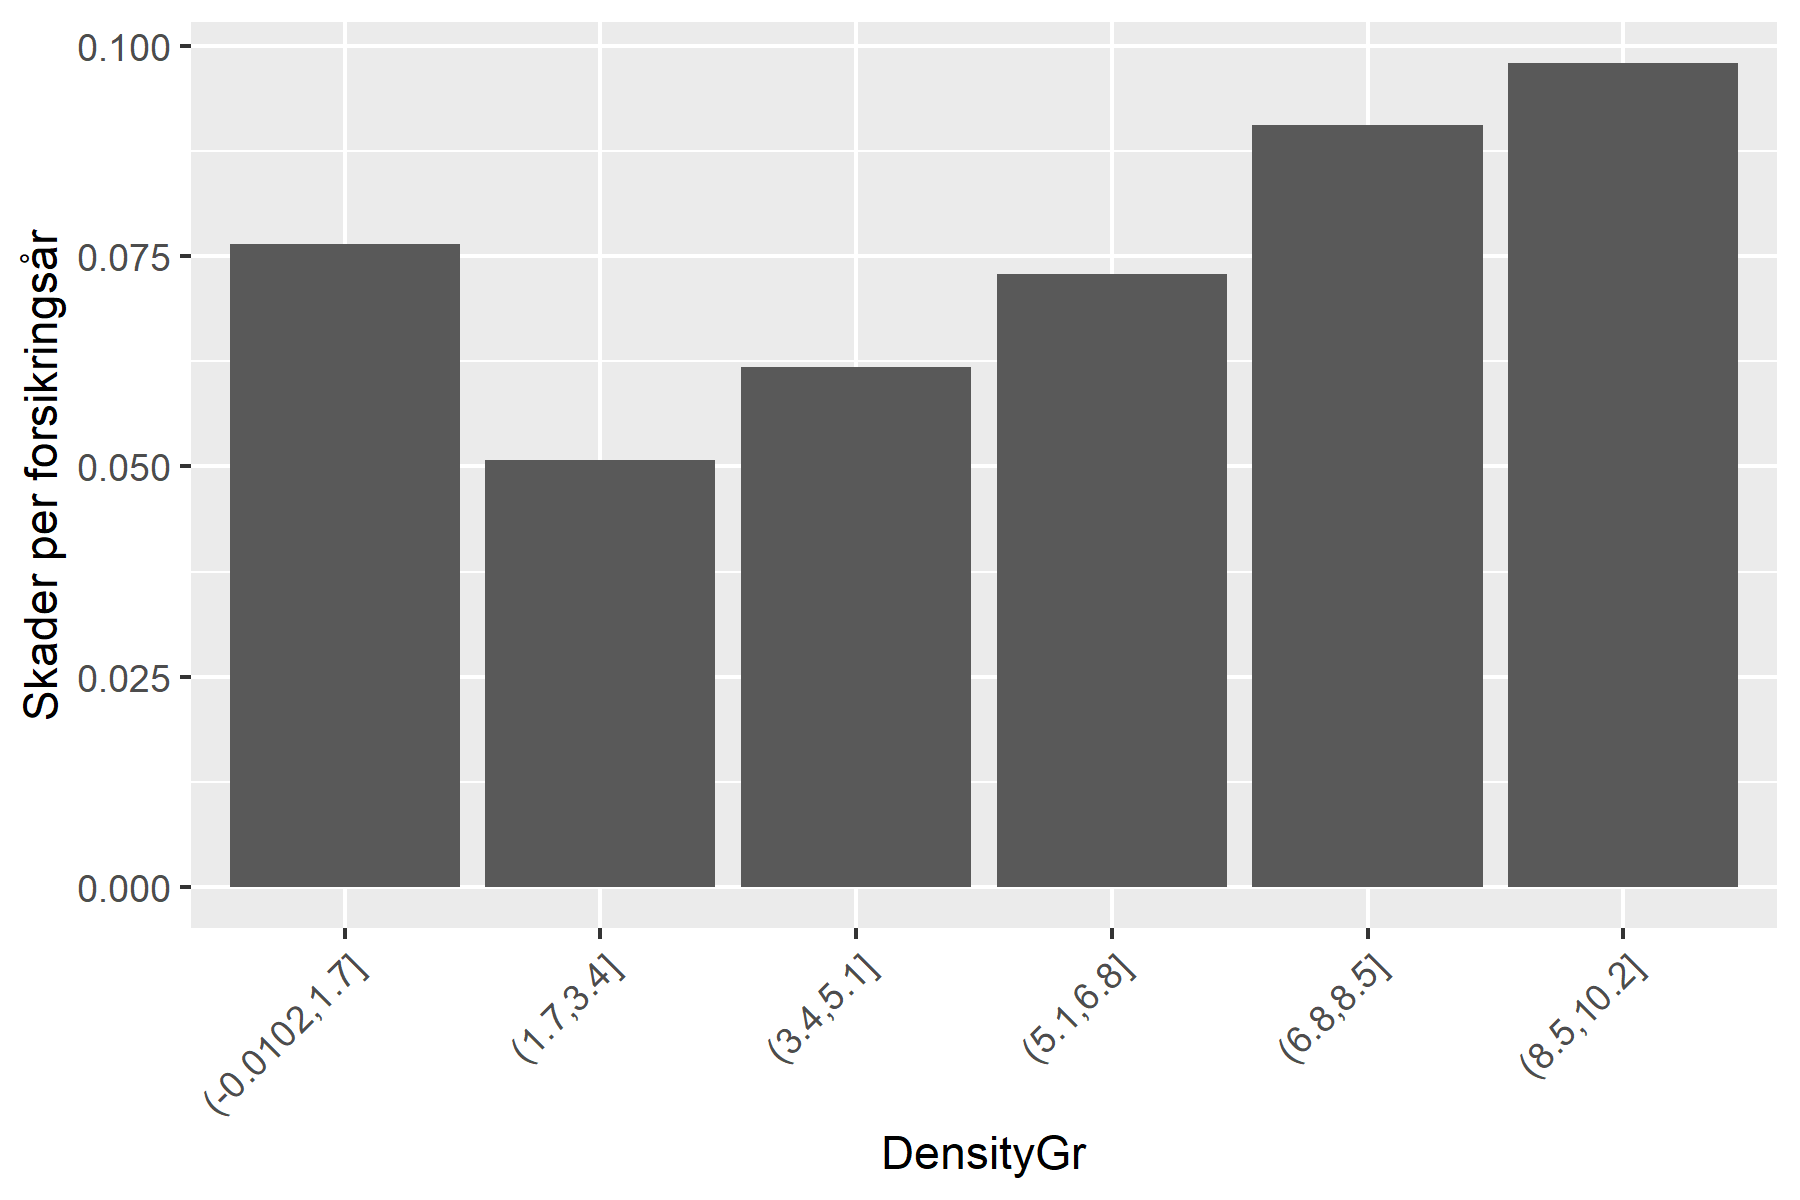
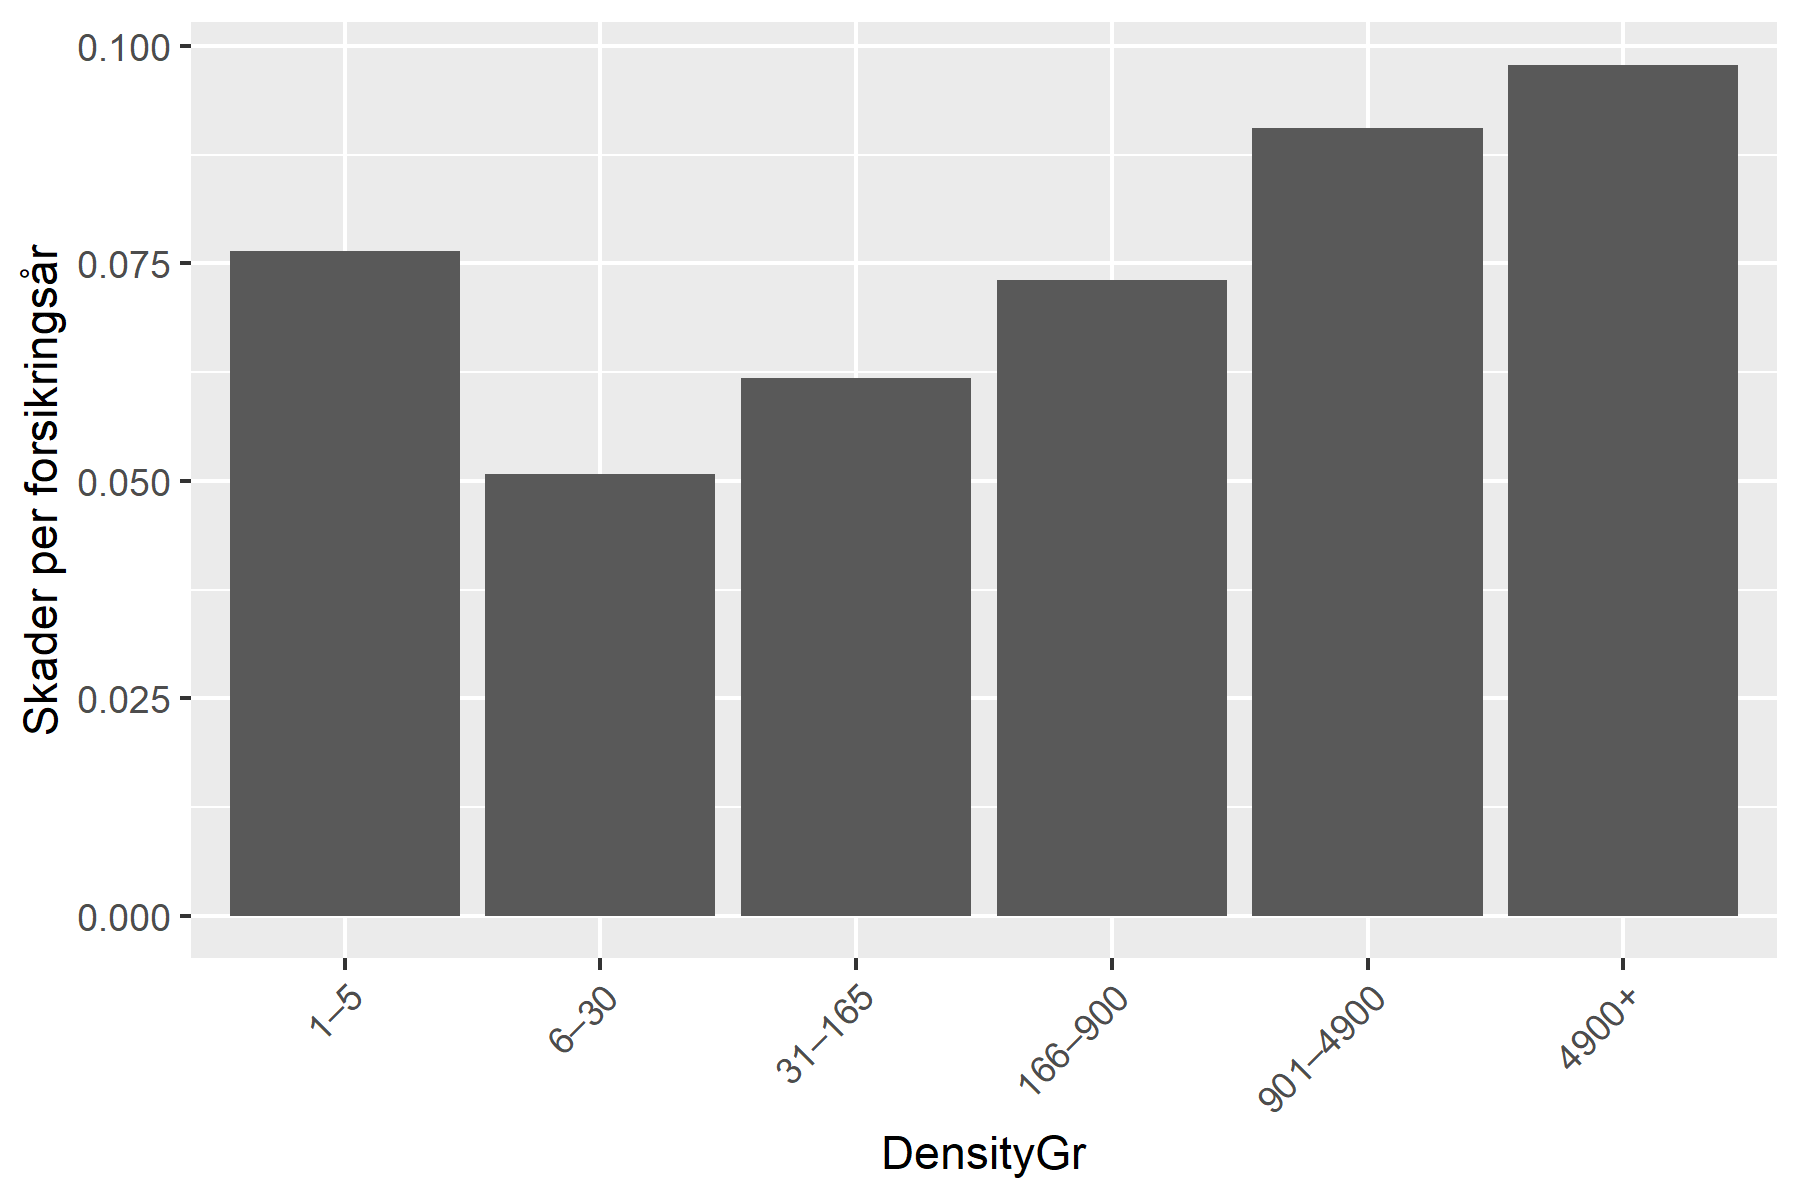
Fikset 01 og 02 slik at rapporten er lettere å skrive

diff --git a/report/report.html b/report/report.html
@@ -2421,44 +2421,35 @@ window.Quarto = {
 <span id="cb1-14"><a href="#cb1-14" aria-hidden="true" tabindex="-1"></a>}</span>
 <span id="cb1-15"><a href="#cb1-15" aria-hidden="true" tabindex="-1"></a>pct <span class="ot">&lt;-</span> <span class="cf">function</span>(x, <span class="at">digits =</span> <span class="dv">1</span>) <span class="fu">paste0</span>(<span class="fu">fmt</span>(<span class="dv">100</span> <span class="sc">*</span> x, digits), <span class="st">&quot; %&quot;</span>)</span>
 <span id="cb1-16"><a href="#cb1-16" aria-hidden="true" tabindex="-1"></a></span>
-<span id="cb1-17"><a href="#cb1-17" aria-hidden="true" tabindex="-1"></a><span class="co"># Grupper kontinuerlige variabler i intervaller med lesbare navn</span></span>
-<span id="cb1-18"><a href="#cb1-18" aria-hidden="true" tabindex="-1"></a>train <span class="ot">&lt;-</span> train <span class="sc">|&gt;</span></span>
-<span id="cb1-19"><a href="#cb1-19" aria-hidden="true" tabindex="-1"></a>  <span class="fu">mutate</span>(</span>
-<span id="cb1-20"><a href="#cb1-20" aria-hidden="true" tabindex="-1"></a>    <span class="at">DrivAgeGr =</span> <span class="fu">cut</span>(DrivAge, <span class="fu">c</span>(<span class="dv">17</span>, <span class="dv">21</span>, <span class="dv">26</span>, <span class="dv">31</span>, <span class="dv">41</span>, <span class="dv">51</span>, <span class="dv">71</span>, <span class="cn">Inf</span>),</span>
-<span id="cb1-21"><a href="#cb1-21" aria-hidden="true" tabindex="-1"></a>                    <span class="at">labels =</span> <span class="fu">c</span>(<span class="st">&quot;18–21&quot;</span>, <span class="st">&quot;22–26&quot;</span>, <span class="st">&quot;27–31&quot;</span>, <span class="st">&quot;32–41&quot;</span>,</span>
-<span id="cb1-22"><a href="#cb1-22" aria-hidden="true" tabindex="-1"></a>                               <span class="st">&quot;42–51&quot;</span>, <span class="st">&quot;52–71&quot;</span>, <span class="st">&quot;72+&quot;</span>)),</span>
-<span id="cb1-23"><a href="#cb1-23" aria-hidden="true" tabindex="-1"></a>    <span class="at">VehAgeGr =</span> <span class="fu">cut</span>(VehAge, <span class="fu">c</span>(<span class="sc">-</span><span class="dv">1</span>, <span class="dv">0</span>, <span class="dv">2</span>, <span class="dv">5</span>, <span class="dv">10</span>, <span class="dv">15</span>, <span class="cn">Inf</span>),</span>
-<span id="cb1-24"><a href="#cb1-24" aria-hidden="true" tabindex="-1"></a>                   <span class="at">labels =</span> <span class="fu">c</span>(<span class="st">&quot;0&quot;</span>, <span class="st">&quot;1–2&quot;</span>, <span class="st">&quot;3–5&quot;</span>, <span class="st">&quot;6–10&quot;</span>, <span class="st">&quot;11–15&quot;</span>, <span class="st">&quot;16+&quot;</span>)),</span>
-<span id="cb1-25"><a href="#cb1-25" aria-hidden="true" tabindex="-1"></a>    <span class="at">BonusMalusGr =</span> <span class="fu">cut</span>(BonusMalus, <span class="fu">c</span>(<span class="dv">49</span>, <span class="dv">50</span>, <span class="dv">60</span>, <span class="dv">80</span>, <span class="dv">100</span>, <span class="cn">Inf</span>),</span>
-<span id="cb1-26"><a href="#cb1-26" aria-hidden="true" tabindex="-1"></a>                       <span class="at">labels =</span> <span class="fu">c</span>(<span class="st">&quot;50&quot;</span>, <span class="st">&quot;51–60&quot;</span>, <span class="st">&quot;61–80&quot;</span>, <span class="st">&quot;81–100&quot;</span>, <span class="st">&quot;101+&quot;</span>)),</span>
-<span id="cb1-27"><a href="#cb1-27" aria-hidden="true" tabindex="-1"></a>    <span class="at">DensityGr =</span> <span class="fu">cut</span>(Density, <span class="fu">c</span>(<span class="dv">0</span>, <span class="dv">5</span>, <span class="dv">30</span>, <span class="dv">165</span>, <span class="dv">900</span>, <span class="dv">4900</span>, <span class="cn">Inf</span>),</span>
-<span id="cb1-28"><a href="#cb1-28" aria-hidden="true" tabindex="-1"></a>                    <span class="at">labels =</span> <span class="fu">c</span>(<span class="st">&quot;1–5&quot;</span>, <span class="st">&quot;6–30&quot;</span>, <span class="st">&quot;31–165&quot;</span>, <span class="st">&quot;166–900&quot;</span>,</span>
-<span id="cb1-29"><a href="#cb1-29" aria-hidden="true" tabindex="-1"></a>                               <span class="st">&quot;901–4900&quot;</span>, <span class="st">&quot;4900+&quot;</span>)),</span>
-<span id="cb1-30"><a href="#cb1-30" aria-hidden="true" tabindex="-1"></a>    <span class="at">VehPowerF =</span> <span class="fu">factor</span>(VehPower),</span>
-<span id="cb1-31"><a href="#cb1-31" aria-hidden="true" tabindex="-1"></a>    <span class="at">VehBrand =</span> <span class="fu">factor</span>(VehBrand, <span class="at">levels =</span> <span class="fu">paste0</span>(<span class="st">&quot;B&quot;</span>, <span class="fu">c</span>(<span class="dv">1</span><span class="sc">:</span><span class="dv">6</span>, <span class="dv">10</span><span class="sc">:</span><span class="dv">14</span>)))</span>
-<span id="cb1-32"><a href="#cb1-32" aria-hidden="true" tabindex="-1"></a>  )</span>
-<span id="cb1-33"><a href="#cb1-33" aria-hidden="true" tabindex="-1"></a></span>
-<span id="cb1-34"><a href="#cb1-34" aria-hidden="true" tabindex="-1"></a><span class="co"># Skadefrekvens: antall skader per forsikringsår</span></span>
-<span id="cb1-35"><a href="#cb1-35" aria-hidden="true" tabindex="-1"></a>total_freq <span class="ot">&lt;-</span> <span class="fu">sum</span>(train<span class="sc">$</span>ClaimNb) <span class="sc">/</span> <span class="fu">sum</span>(train<span class="sc">$</span>Exposure)</span>
-<span id="cb1-36"><a href="#cb1-36" aria-hidden="true" tabindex="-1"></a></span>
-<span id="cb1-37"><a href="#cb1-37" aria-hidden="true" tabindex="-1"></a>freq_table <span class="ot">&lt;-</span> <span class="cf">function</span>(var) {</span>
-<span id="cb1-38"><a href="#cb1-38" aria-hidden="true" tabindex="-1"></a>  train <span class="sc">|&gt;</span></span>
-<span id="cb1-39"><a href="#cb1-39" aria-hidden="true" tabindex="-1"></a>    <span class="fu">group_by</span>({{ var }}) <span class="sc">|&gt;</span></span>
-<span id="cb1-40"><a href="#cb1-40" aria-hidden="true" tabindex="-1"></a>    <span class="fu">summarise</span>(</span>
-<span id="cb1-41"><a href="#cb1-41" aria-hidden="true" tabindex="-1"></a>      <span class="at">eksponering =</span> <span class="fu">sum</span>(Exposure),</span>
-<span id="cb1-42"><a href="#cb1-42" aria-hidden="true" tabindex="-1"></a>      <span class="at">skader =</span> <span class="fu">sum</span>(ClaimNb),</span>
-<span id="cb1-43"><a href="#cb1-43" aria-hidden="true" tabindex="-1"></a>      <span class="at">frekvens =</span> skader <span class="sc">/</span> eksponering,</span>
-<span id="cb1-44"><a href="#cb1-44" aria-hidden="true" tabindex="-1"></a>      <span class="at">.groups =</span> <span class="st">&quot;drop&quot;</span></span>
-<span id="cb1-45"><a href="#cb1-45" aria-hidden="true" tabindex="-1"></a>    )</span>
-<span id="cb1-46"><a href="#cb1-46" aria-hidden="true" tabindex="-1"></a>}</span>
-<span id="cb1-47"><a href="#cb1-47" aria-hidden="true" tabindex="-1"></a></span>
-<span id="cb1-48"><a href="#cb1-48" aria-hidden="true" tabindex="-1"></a><span class="co"># Søylediagram med total skadefrekvens som stiplet linje</span></span>
-<span id="cb1-49"><a href="#cb1-49" aria-hidden="true" tabindex="-1"></a>plot_freq <span class="ot">&lt;-</span> <span class="cf">function</span>(tab, var, xlab) {</span>
-<span id="cb1-50"><a href="#cb1-50" aria-hidden="true" tabindex="-1"></a>  <span class="fu">ggplot</span>(tab, <span class="fu">aes</span>(<span class="at">x =</span> {{ var }}, <span class="at">y =</span> frekvens)) <span class="sc">+</span></span>
-<span id="cb1-51"><a href="#cb1-51" aria-hidden="true" tabindex="-1"></a>    <span class="fu">geom_col</span>(<span class="at">fill =</span> fill_col) <span class="sc">+</span></span>
-<span id="cb1-52"><a href="#cb1-52" aria-hidden="true" tabindex="-1"></a>    <span class="fu">geom_hline</span>(<span class="at">yintercept =</span> total_freq, <span class="at">linetype =</span> <span class="st">&quot;dashed&quot;</span>) <span class="sc">+</span></span>
-<span id="cb1-53"><a href="#cb1-53" aria-hidden="true" tabindex="-1"></a>    <span class="fu">labs</span>(<span class="at">x =</span> xlab, <span class="at">y =</span> <span class="st">&quot;Skader per forsikringsår&quot;</span>)</span>
-<span id="cb1-54"><a href="#cb1-54" aria-hidden="true" tabindex="-1"></a>}</span></code></pre></div><button title="Kopier til utklipstavle" class="code-copy-button"><i class="bi"></i></button></div>
+<span id="cb1-17"><a href="#cb1-17" aria-hidden="true" tabindex="-1"></a><span class="co"># Grupperte variabler (DrivAgeGr osv.) lages i R/01_load_data.R.</span></span>
+<span id="cb1-18"><a href="#cb1-18" aria-hidden="true" tabindex="-1"></a><span class="co"># Her justeres bare variabler for figurene.</span></span>
+<span id="cb1-19"><a href="#cb1-19" aria-hidden="true" tabindex="-1"></a>train <span class="ot">&lt;-</span> train <span class="sc">|&gt;</span></span>
+<span id="cb1-20"><a href="#cb1-20" aria-hidden="true" tabindex="-1"></a>  <span class="fu">mutate</span>(</span>
+<span id="cb1-21"><a href="#cb1-21" aria-hidden="true" tabindex="-1"></a>    <span class="at">VehPowerF =</span> <span class="fu">factor</span>(VehPower),</span>
+<span id="cb1-22"><a href="#cb1-22" aria-hidden="true" tabindex="-1"></a>    <span class="at">VehBrand =</span> <span class="fu">factor</span>(VehBrand, <span class="at">levels =</span> <span class="fu">paste0</span>(<span class="st">&quot;B&quot;</span>, <span class="fu">c</span>(<span class="dv">1</span><span class="sc">:</span><span class="dv">6</span>, <span class="dv">10</span><span class="sc">:</span><span class="dv">14</span>)))</span>
+<span id="cb1-23"><a href="#cb1-23" aria-hidden="true" tabindex="-1"></a>  )</span>
+<span id="cb1-24"><a href="#cb1-24" aria-hidden="true" tabindex="-1"></a></span>
+<span id="cb1-25"><a href="#cb1-25" aria-hidden="true" tabindex="-1"></a><span class="co"># Skadefrekvens: antall skader per forsikringsår</span></span>
+<span id="cb1-26"><a href="#cb1-26" aria-hidden="true" tabindex="-1"></a>total_freq <span class="ot">&lt;-</span> <span class="fu">sum</span>(train<span class="sc">$</span>ClaimNb) <span class="sc">/</span> <span class="fu">sum</span>(train<span class="sc">$</span>Exposure)</span>
+<span id="cb1-27"><a href="#cb1-27" aria-hidden="true" tabindex="-1"></a></span>
+<span id="cb1-28"><a href="#cb1-28" aria-hidden="true" tabindex="-1"></a>freq_table <span class="ot">&lt;-</span> <span class="cf">function</span>(var) {</span>
+<span id="cb1-29"><a href="#cb1-29" aria-hidden="true" tabindex="-1"></a>  train <span class="sc">|&gt;</span></span>
+<span id="cb1-30"><a href="#cb1-30" aria-hidden="true" tabindex="-1"></a>    <span class="fu">group_by</span>({{ var }}) <span class="sc">|&gt;</span></span>
+<span id="cb1-31"><a href="#cb1-31" aria-hidden="true" tabindex="-1"></a>    <span class="fu">summarise</span>(</span>
+<span id="cb1-32"><a href="#cb1-32" aria-hidden="true" tabindex="-1"></a>      <span class="at">eksponering =</span> <span class="fu">sum</span>(Exposure),</span>
+<span id="cb1-33"><a href="#cb1-33" aria-hidden="true" tabindex="-1"></a>      <span class="at">skader =</span> <span class="fu">sum</span>(ClaimNb),</span>
+<span id="cb1-34"><a href="#cb1-34" aria-hidden="true" tabindex="-1"></a>      <span class="at">frekvens =</span> skader <span class="sc">/</span> eksponering,</span>
+<span id="cb1-35"><a href="#cb1-35" aria-hidden="true" tabindex="-1"></a>      <span class="at">.groups =</span> <span class="st">&quot;drop&quot;</span></span>
+<span id="cb1-36"><a href="#cb1-36" aria-hidden="true" tabindex="-1"></a>    )</span>
+<span id="cb1-37"><a href="#cb1-37" aria-hidden="true" tabindex="-1"></a>}</span>
+<span id="cb1-38"><a href="#cb1-38" aria-hidden="true" tabindex="-1"></a></span>
+<span id="cb1-39"><a href="#cb1-39" aria-hidden="true" tabindex="-1"></a><span class="co"># Søylediagram med total skadefrekvens som stiplet linje</span></span>
+<span id="cb1-40"><a href="#cb1-40" aria-hidden="true" tabindex="-1"></a>plot_freq <span class="ot">&lt;-</span> <span class="cf">function</span>(tab, var, xlab) {</span>
+<span id="cb1-41"><a href="#cb1-41" aria-hidden="true" tabindex="-1"></a>  <span class="fu">ggplot</span>(tab, <span class="fu">aes</span>(<span class="at">x =</span> {{ var }}, <span class="at">y =</span> frekvens)) <span class="sc">+</span></span>
+<span id="cb1-42"><a href="#cb1-42" aria-hidden="true" tabindex="-1"></a>    <span class="fu">geom_col</span>(<span class="at">fill =</span> fill_col) <span class="sc">+</span></span>
+<span id="cb1-43"><a href="#cb1-43" aria-hidden="true" tabindex="-1"></a>    <span class="fu">geom_hline</span>(<span class="at">yintercept =</span> total_freq, <span class="at">linetype =</span> <span class="st">&quot;dashed&quot;</span>) <span class="sc">+</span></span>
+<span id="cb1-44"><a href="#cb1-44" aria-hidden="true" tabindex="-1"></a>    <span class="fu">labs</span>(<span class="at">x =</span> xlab, <span class="at">y =</span> <span class="st">&quot;Skader per forsikringsår&quot;</span>)</span>
+<span id="cb1-45"><a href="#cb1-45" aria-hidden="true" tabindex="-1"></a>}</span></code></pre></div><button title="Kopier til utklipstavle" class="code-copy-button"><i class="bi"></i></button></div>
 </details>
 </div>
 <section id="innledning" class="level2" data-number="1">
